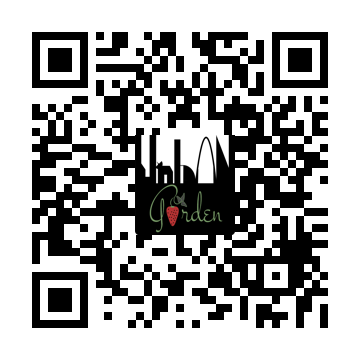
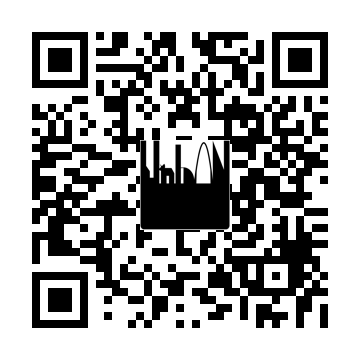
final center

Changed region(s): [[0.3667, 0.3667, 0.6722, 0.6722]]

diff --git a/QRCode/qrCodeGen.py b/QRCode/qrCodeGen.py
@@ -6,7 +6,7 @@ url.png('test.png',scale=8)
 im = Image.open('test.png')
 im = im.convert("RGBA")
 logo = Image.open('logo.png')
-box = (135,135,235,235)
+box = (140,140,230,230)
 im.crop(box)
 region = logo
 region = region.resize((box[3] - box[1], box[3] - box[1]))
